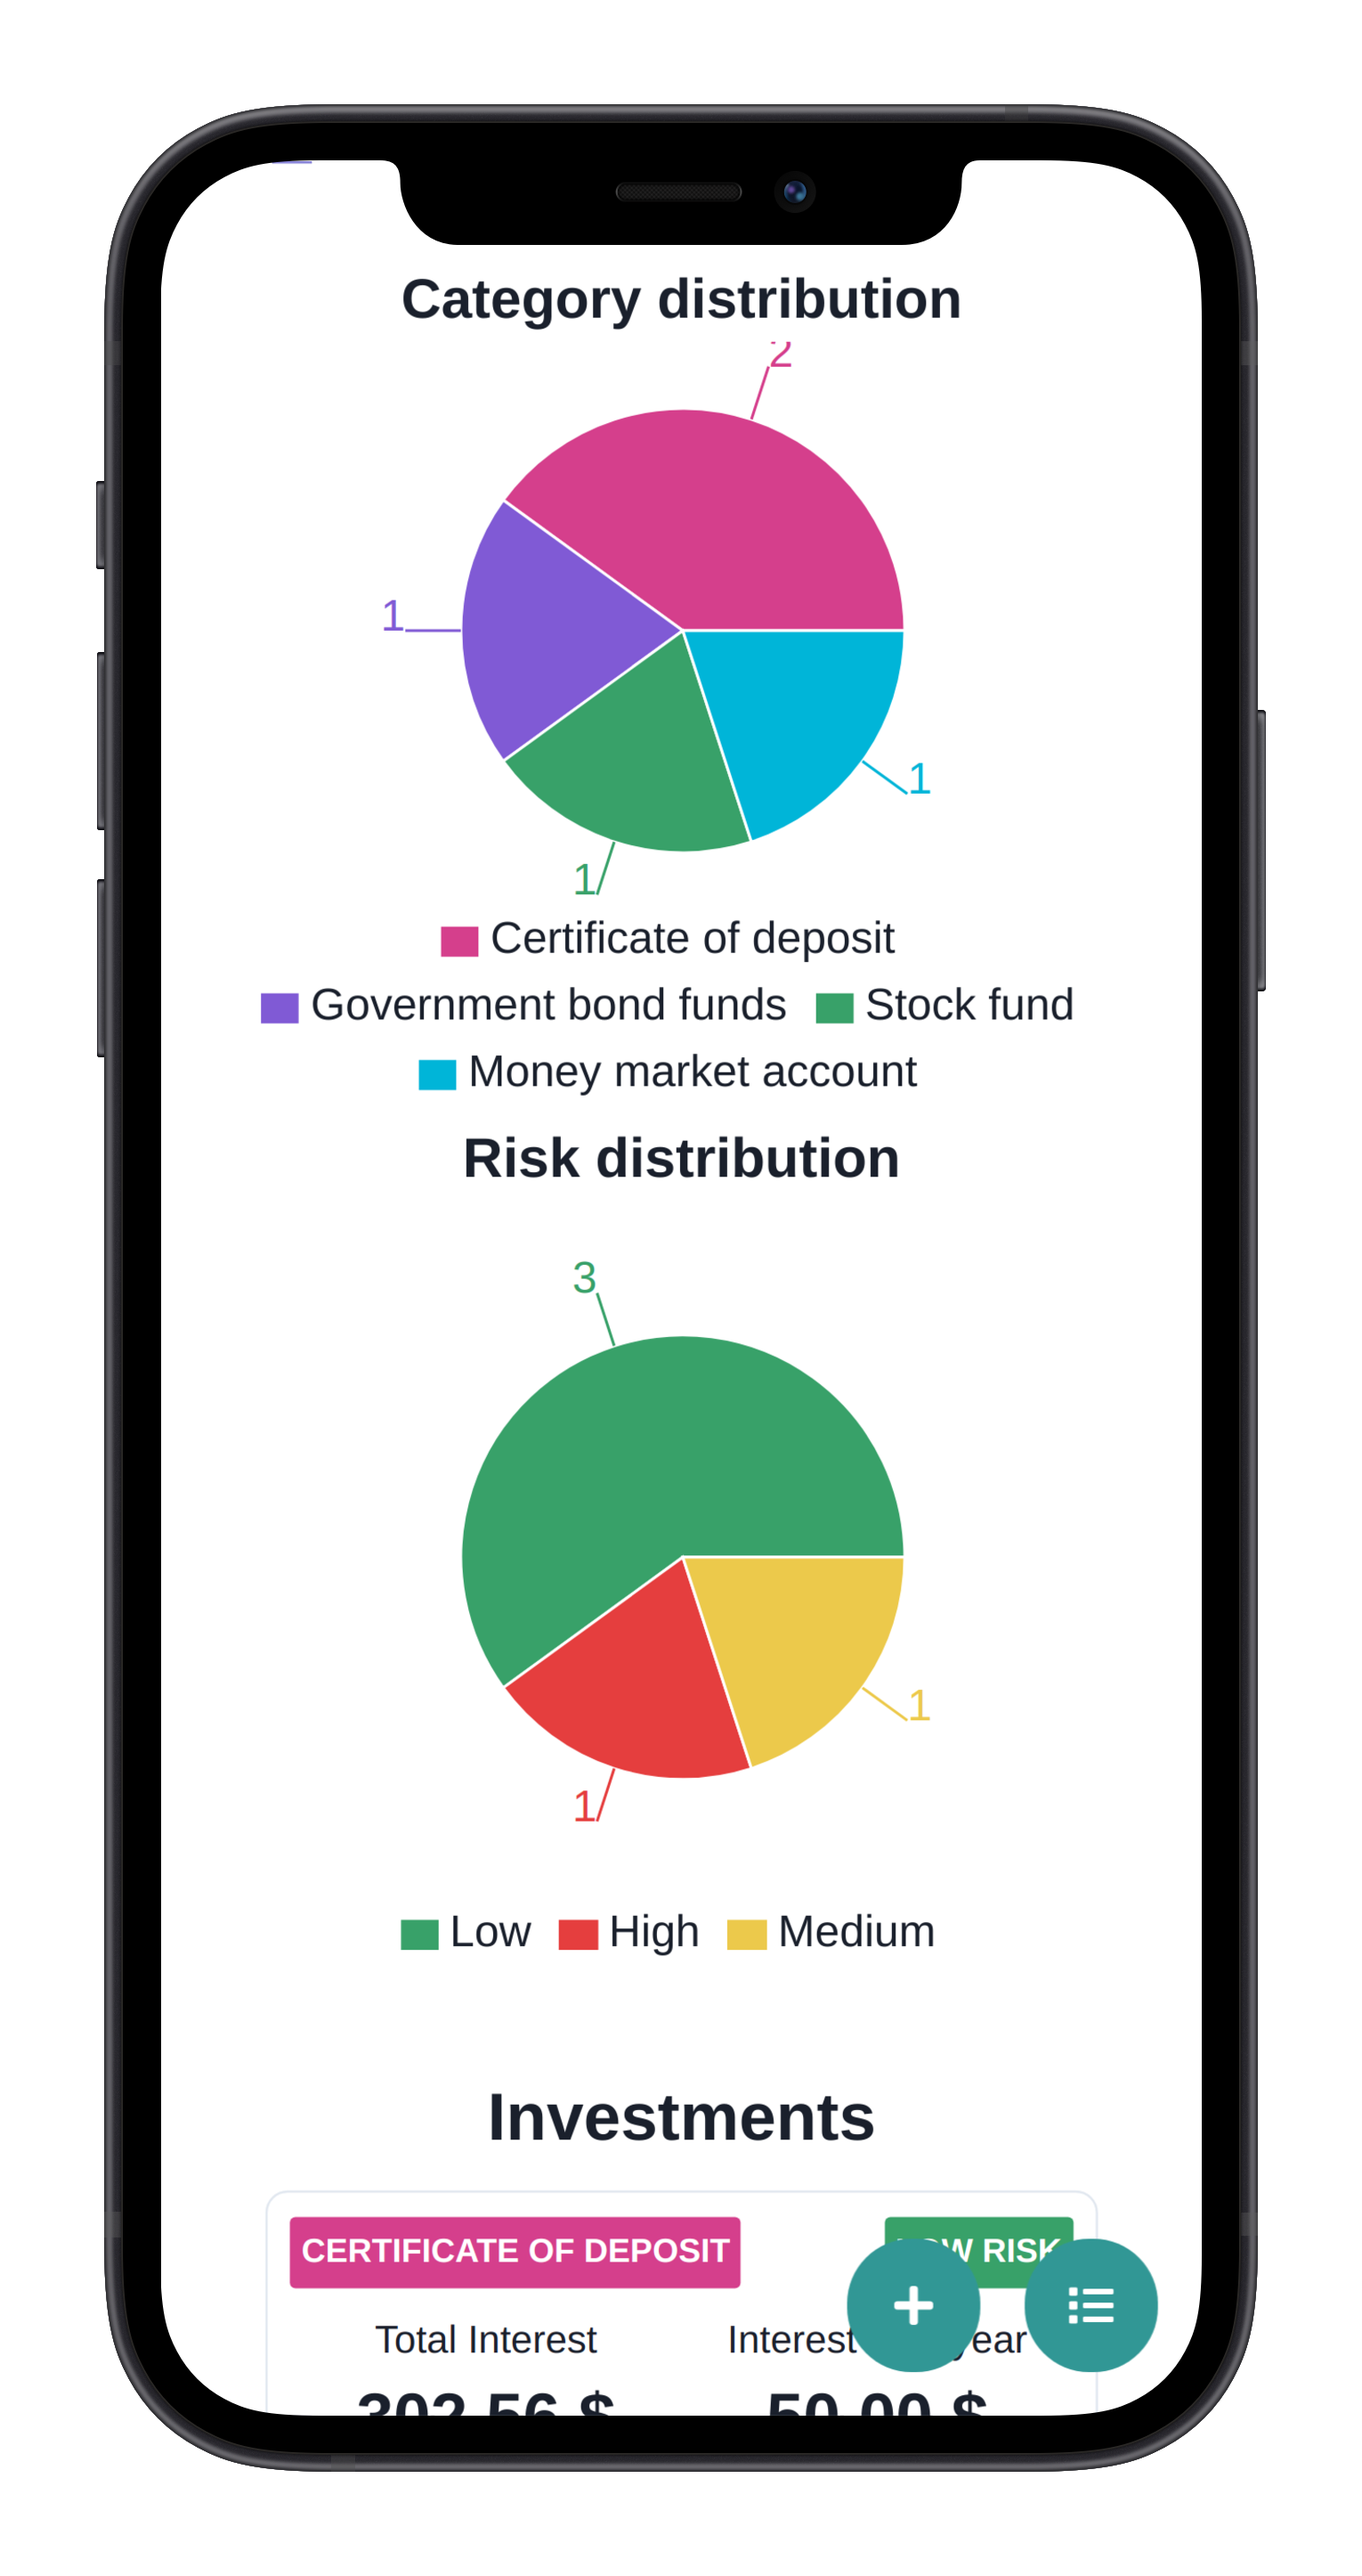
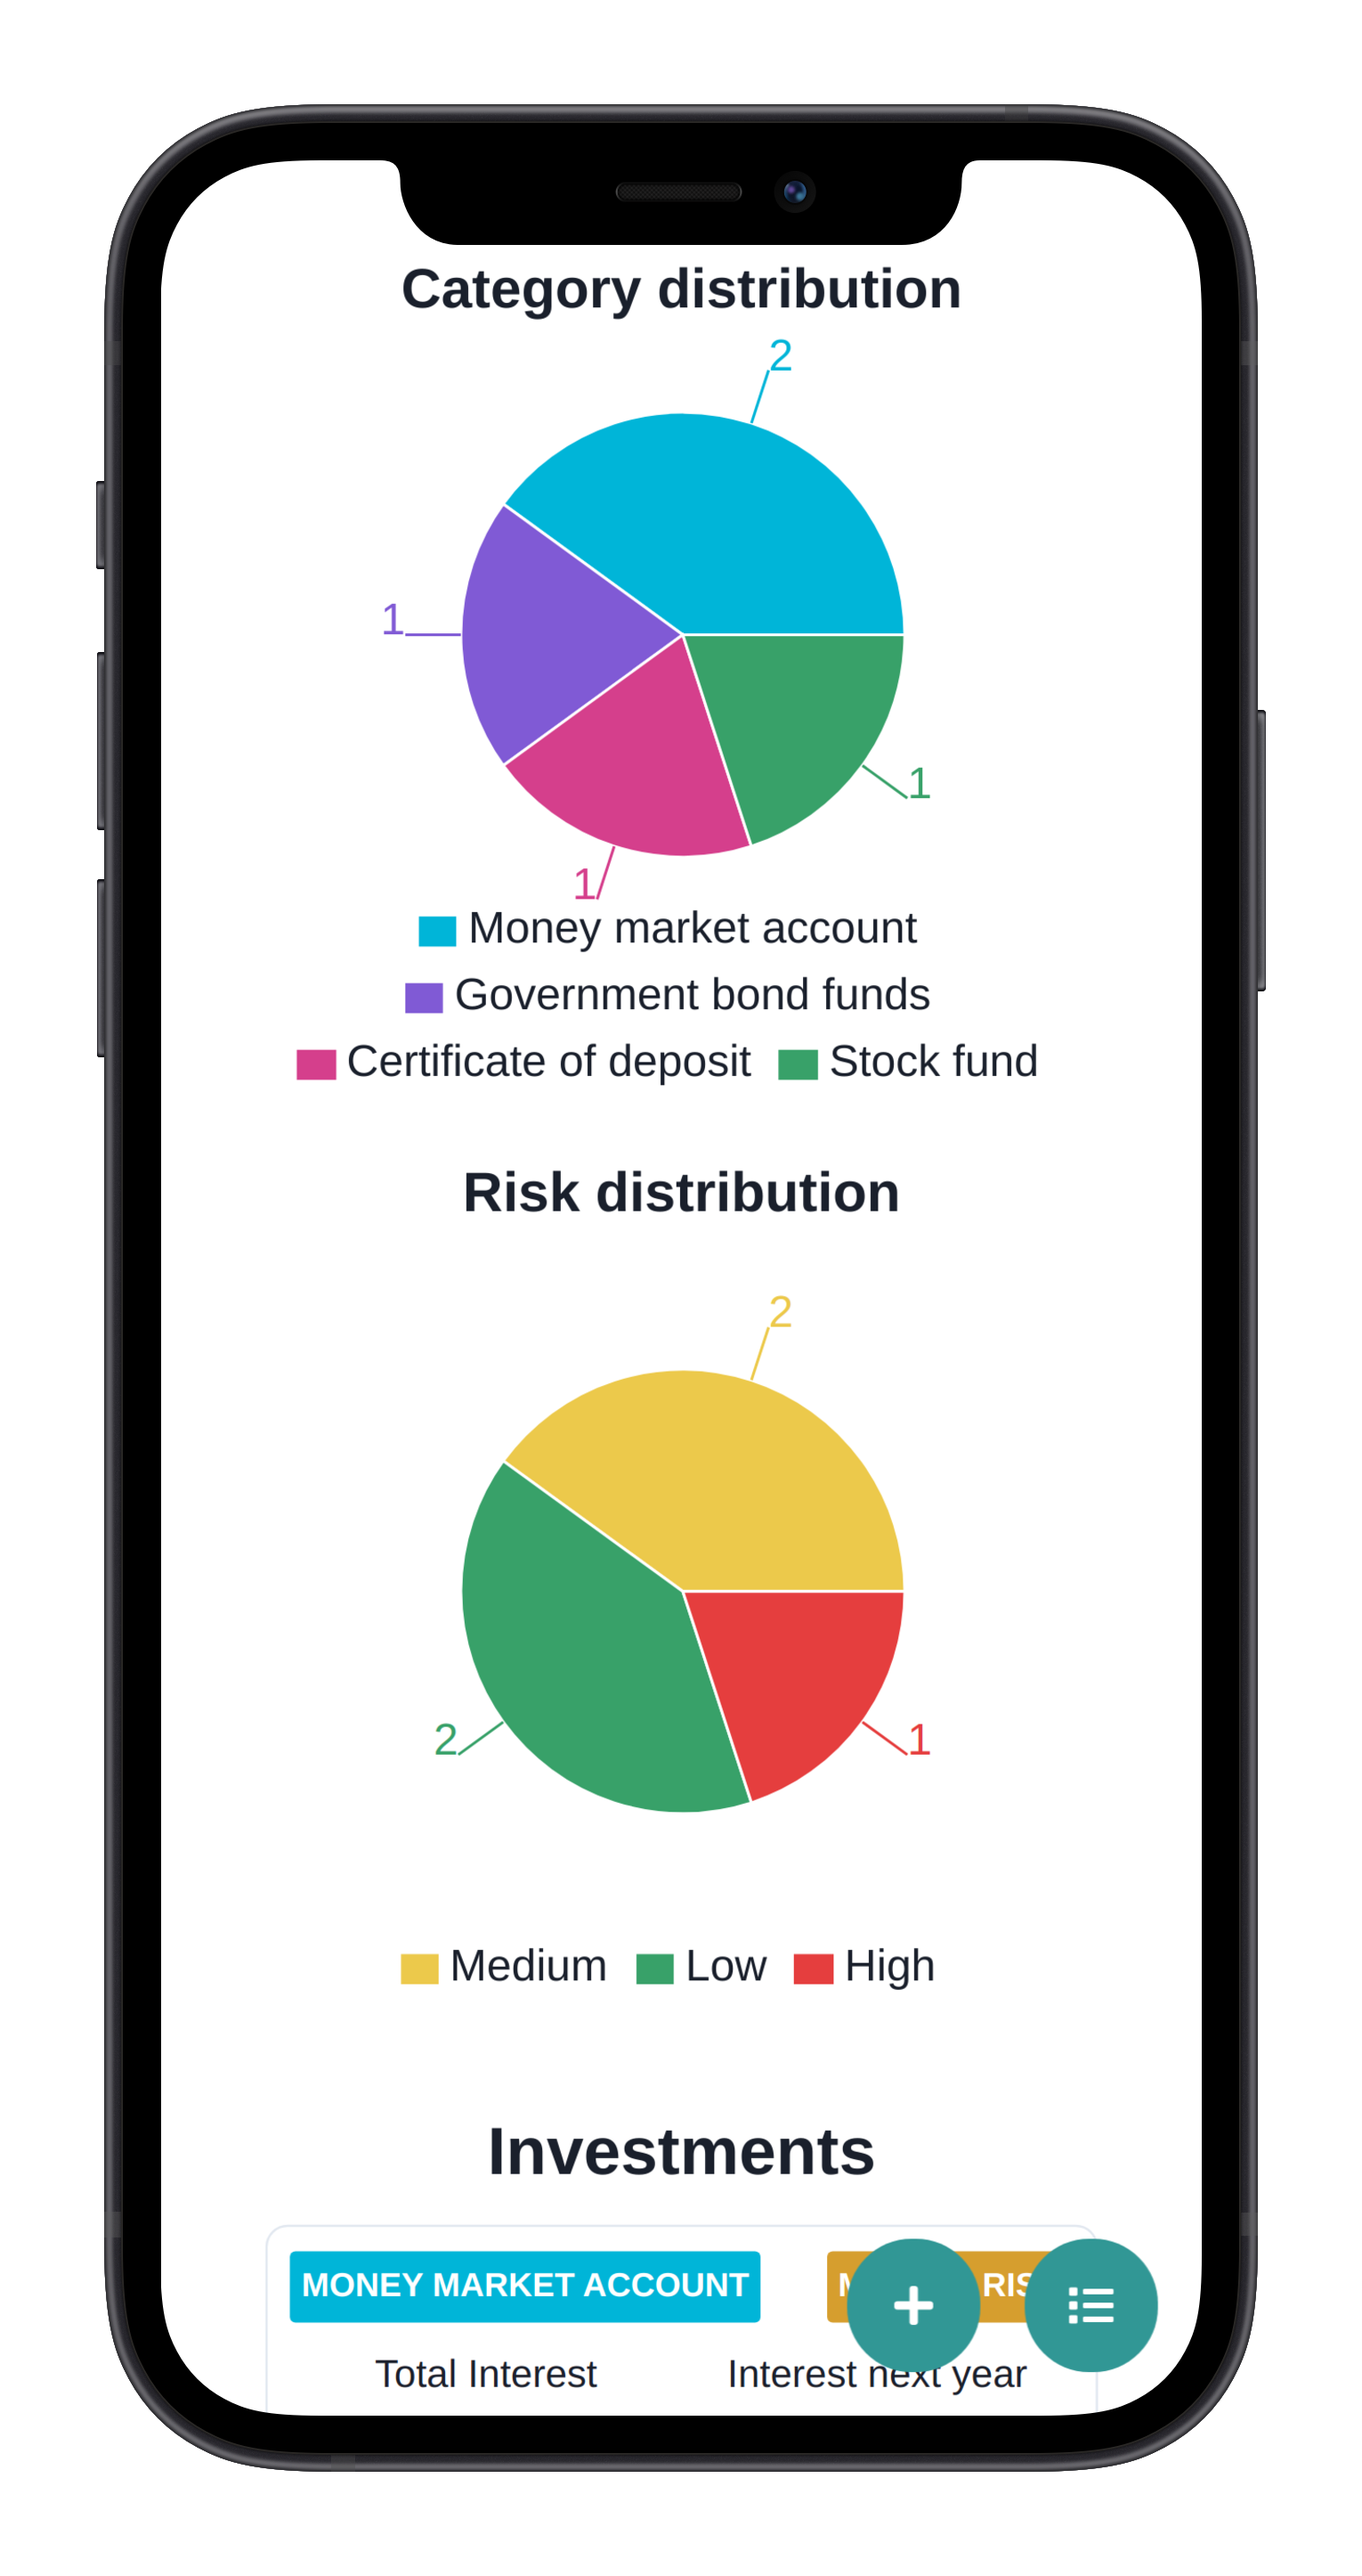
test: investment, basket and auth services unit tests.

diff --git a/frontend/src/pages/my-space/basket-details/basket-summary/basket-summary.tsx b/frontend/src/pages/my-space/basket-details/basket-summary/basket-summary.tsx
@@ -44,7 +44,9 @@ const BasketSummary = ({ investments }: Props) => {
         my={6}
       >
         <InvestmentCategoryChart investments={investments} />
-        <InvestmentRiskChart investments={investments} />
+        <Box mt={4}>
+          <InvestmentRiskChart investments={investments} />
+        </Box>
       </Flex>
     </Box>
   );

diff --git a/frontend/src/shared/components/investment/edit-investment-modal/edit-investment-modal.tsx b/frontend/src/shared/components/investment/edit-investment-modal/edit-investment-modal.tsx
@@ -102,7 +102,7 @@ const EditInvestmentModal = ({
     <Modal isOpen={isOpen} onClose={onClose} scrollBehavior="inside">
       <ModalOverlay />
       <ModalContent>
-        <ModalHeader>Edit an investment</ModalHeader>
+        <ModalHeader>Edit investment</ModalHeader>
         <ModalCloseButton />
         <ModalBody>
           <Box

diff --git a/backend/src/main/java/com/nalhin/fc/basket/BasketController.java b/backend/src/main/java/com/nalhin/fc/basket/BasketController.java
@@ -42,7 +42,7 @@ class BasketController {
   public ResponseEntity<Page<BasketResponseDto>> getBaskets(
       Pageable pageable, @CurrentAppUser AppUser appUser) {
 
-    Page<Basket> basketsPage = basketService.findAll(pageable, appUser.getId());
+    Page<Basket> basketsPage = basketService.findAllBaskets(pageable, appUser.getId());
 
     return ResponseEntity.ok(basketsPage.map(basketMapper::toResponse));
   }
@@ -66,7 +66,7 @@ class BasketController {
   public ResponseEntity<BasketResponseDto> saveBasket(
       @Valid @RequestBody SaveBasketRequestDto basket) {
 
-    Basket savedBasket = basketService.save(basketMapper.toEntity(basket));
+    Basket savedBasket = basketService.saveBasket(basketMapper.toEntity(basket));
     URI location = URI.create("/me/baskets/" + savedBasket.getId());
 
     return ResponseEntity.created(location).body(basketMapper.toResponse(savedBasket));
@@ -94,7 +94,7 @@ class BasketController {
       @Valid @RequestBody UpdateBasketRequestDto updateBasketRequestDto,
       @CurrentAppUser AppUser appUser) {
 
-    Basket updatedBasket = basketService.update(basketId, updateBasketRequestDto, appUser.getId());
+    Basket updatedBasket = basketService.updateBasket(basketId, updateBasketRequestDto, appUser.getId());
 
     return ResponseEntity.ok(basketMapper.toResponse(updatedBasket));
   }
@@ -112,7 +112,7 @@ class BasketController {
   public ResponseEntity<Void> deleteBasket(
       @PathVariable Long basketId, @CurrentAppUser AppUser appUser) {
 
-    basketService.delete(basketId, appUser.getId());
+    basketService.deleteBasket(basketId, appUser.getId());
 
     return ResponseEntity.ok().build();
   }

diff --git a/backend/src/main/java/com/nalhin/fc/investment/InvestmentService.java b/backend/src/main/java/com/nalhin/fc/investment/InvestmentService.java
@@ -23,10 +23,10 @@ class InvestmentService {
     return investmentRepository.findByBasketIdAndOwnerId(basketId, userId, pageable);
   }
 
-  public Investment getByBasketIdAndId(Long investmentId, Long basketId, Long userId) {
+  public Investment getByBasketIdAndId(Long basketId, Long investmentId, Long userId) {
     Investment investment =
         investmentRepository
-            .findByBasketIdAndId(investmentId, basketId)
+            .findByBasketIdAndId(basketId, investmentId)
             .orElseThrow(InvestmentNotFoundException::new);
 
     if (!investment.getOwner().getId().equals(userId)) {
@@ -43,7 +43,7 @@ class InvestmentService {
     return investmentRepository.save(investment);
   }
 
-  public Investment updateInvestment(
+  public Investment updateInvestmentByBasketIdAndId(
       Long basketId, Long investmentId, UpdateInvestmentRequestDto investmentRequest, Long userId) {
     Investment investment =
         investmentRepository
@@ -58,7 +58,7 @@ class InvestmentService {
     return investmentRepository.save(investment);
   }
 
-  public void deleteByBasketId(Long basketId, Long investmentId, Long userId) {
+  public void deleteByBasketIdAndId(Long basketId, Long investmentId, Long userId) {
     Investment investment =
         investmentRepository
             .findByBasketIdAndId(basketId, investmentId)

diff --git a/backend/src/main/java/com/nalhin/fc/basket/BasketService.java b/backend/src/main/java/com/nalhin/fc/basket/BasketService.java
@@ -14,11 +14,11 @@ class BasketService {
   private final BasketRepository basketRepository;
   private final BasketMapper basketMapper;
 
-  public Page<Basket> findAll(Pageable page, Long userId) {
+  public Page<Basket> findAllBaskets(Pageable page, Long userId) {
     return basketRepository.findAllByOwnerId(page, userId);
   }
 
-  public Basket update(Long basketId, UpdateBasketRequestDto updateBasketRequest, Long userId) {
+  public Basket updateBasket(Long basketId, UpdateBasketRequestDto updateBasketRequest, Long userId) {
     Basket basket = basketRepository.findById(basketId).orElseThrow(BasketNotFoundException::new);
 
     if (!basket.getOwner().getId().equals(userId)) {
@@ -29,11 +29,11 @@ class BasketService {
     return basketRepository.save(basket);
   }
 
-  public Basket save(Basket basket) {
+  public Basket saveBasket(Basket basket) {
     return basketRepository.save(basket);
   }
 
-  public void delete(Long basketId, Long userId) {
+  public void deleteBasket(Long basketId, Long userId) {
     Basket basket = basketRepository.findById(basketId).orElseThrow(BasketNotFoundException::new);
 
     if (!basket.getOwner().getId().equals(userId)) {

diff --git a/backend/src/main/java/com/nalhin/fc/investment/InvestmentController.java b/backend/src/main/java/com/nalhin/fc/investment/InvestmentController.java
@@ -128,7 +128,7 @@ class InvestmentController {
       @Valid @RequestBody UpdateInvestmentRequestDto updateInvestmentRequestDto,
       @CurrentAppUser AppUser appUser) {
     Investment updatedInvestment =
-        investmentService.updateInvestment(
+        investmentService.updateInvestmentByBasketIdAndId(
             basketId, investmentId, updateInvestmentRequestDto, appUser.getId());
 
     return ResponseEntity.ok().body(mapper.toResponse(updatedInvestment));
@@ -153,7 +153,7 @@ class InvestmentController {
       @PathVariable Long basketId,
       @PathVariable Long investmentId,
       @CurrentAppUser AppUser appUser) {
-    investmentService.deleteByBasketId(basketId, investmentId, appUser.getId());
+    investmentService.deleteByBasketIdAndId(basketId, investmentId, appUser.getId());
 
     return ResponseEntity.ok().build();
   }

diff --git a/README.md b/README.md
@@ -8,7 +8,7 @@
 
 # Finance Calculator
 
-Finance calculator with investment planning, visualization and persistence.
+Finance calculator with investment planning, interactive visualization and persistence.
 
 ## Table of contents
 
@@ -41,7 +41,7 @@ The business logic is based on economic compound interest rate formulas.
 
 <p align="center">
   <a href="https://youtu.be/noUTVgs8gUI">
-    <img src="screenshots/finance-calculator-mobile.gif" alt="mobile overview"/>
+    <img width="240px" src="screenshots/finance-calculator-mobile.gif" alt="mobile overview"/>
   </a>
 </p>
 
@@ -53,39 +53,37 @@ The business logic is based on economic compound interest rate formulas.
   </a>
 </p>
 
-### Screens
-
-#### Landing Page
+### Landing Page
 
 <p align="center">
     <img src="screenshots/landing.png" alt="landing"/>
 </p>
 
-#### Calculator
+### Calculator
 
 <p align="center">
     <img src="screenshots/calculator.png" alt="landing"/>
 </p>
 
-#### Investment summary
+### Investment summary
 
 <p align="center">
     <img src="screenshots/investment-summary.png" alt="investment summary"/>
 </p>
 
-#### Investment distribution
+### Investment distribution
 
 <p align="center">
     <img src="screenshots/investment-distribution.png" alt="investment distribution"/>
 </p>
 
-#### Investments
+### Investments
 
 <p align="center">
     <img src="screenshots/investments.png" alt="investments"/>
 </p>
 
-#### Edit investment
+### Edit investment
 
 <p align="center">
     <img src="screenshots/edit-investment-modal.png" alt="edit investment"/>
@@ -126,6 +124,14 @@ The business logic is based on economic compound interest rate formulas.
 * SonarCloud
 
 ## Architecture
+
+### Frontend
+
+
+
+### Backend
+
+
 
 ## REST API specification
 
